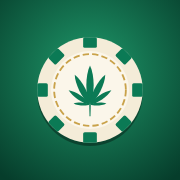
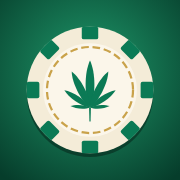
Ícono de iPhone con la ficha más grande (x1.2); ICON_VERSION 3 para pedir volver a agregarla
Claude-Session: https://claude.ai/code/session_012Qdti7RkxnUYziTV5gA4zF

diff --git a/lib/install-mark.ts b/lib/install-mark.ts
@@ -6,7 +6,7 @@
 // cuando cambie el ícono.
 
 export const INSTALL_KEY = "la-cajita:instalada"
-export const ICON_VERSION = "2"
+export const ICON_VERSION = "3"
 export const OLD_INSTALL = "old"
 
 export const INSTALL_MARK_SCRIPT = `try{var s=window.matchMedia("(display-mode: standalone)").matches||navigator.standalone===true;if(s){var k=${JSON.stringify(INSTALL_KEY)},v=${JSON.stringify(ICON_VERSION)},m=localStorage.getItem(k);if(m===null)localStorage.setItem(k,localStorage.length?${JSON.stringify(OLD_INSTALL)}:v);else if(m!==v&&m!==${JSON.stringify(OLD_INSTALL)})localStorage.setItem(k,${JSON.stringify(OLD_INSTALL)})}}catch(e){}`

diff --git a/docs/plan-truco.md b/docs/plan-truco.md
@@ -248,6 +248,12 @@ Reglas confirmadas (las fuentes no coinciden en los valores):
   segura de Android (`public/favicon.svg` es la fuente; PNG de 512, 192, 180
   para iPhone y 32). El fondo de apertura de Android (`background_color` del
   manifest) es el verde del paño.
+  El de iPhone (180) lleva la ficha 1,2 veces más grande (28/11/2026, a
+  pedido): iOS no recorta como Android, así que no necesita la zona segura. Se
+  genera de `favicon.svg` envolviendo todo menos el fondo en
+  `<g transform="translate(256 256) scale(1.2) translate(-256 -256)">`.
+  `ICON_VERSION` pasó a "3" para que los iPhone que ya la tenían la vuelvan a
+  agregar.
 - **Logo** "LA CAJITA" (`components/logo-type.tsx`, clase `.logo-type`):
   Bebas Neue con aire entre letras, en dorado. En los dos encabezados; Truco ya no
   dice "Truco" y sus palos van en dos tintas (espada y basto claros, copa y oro
